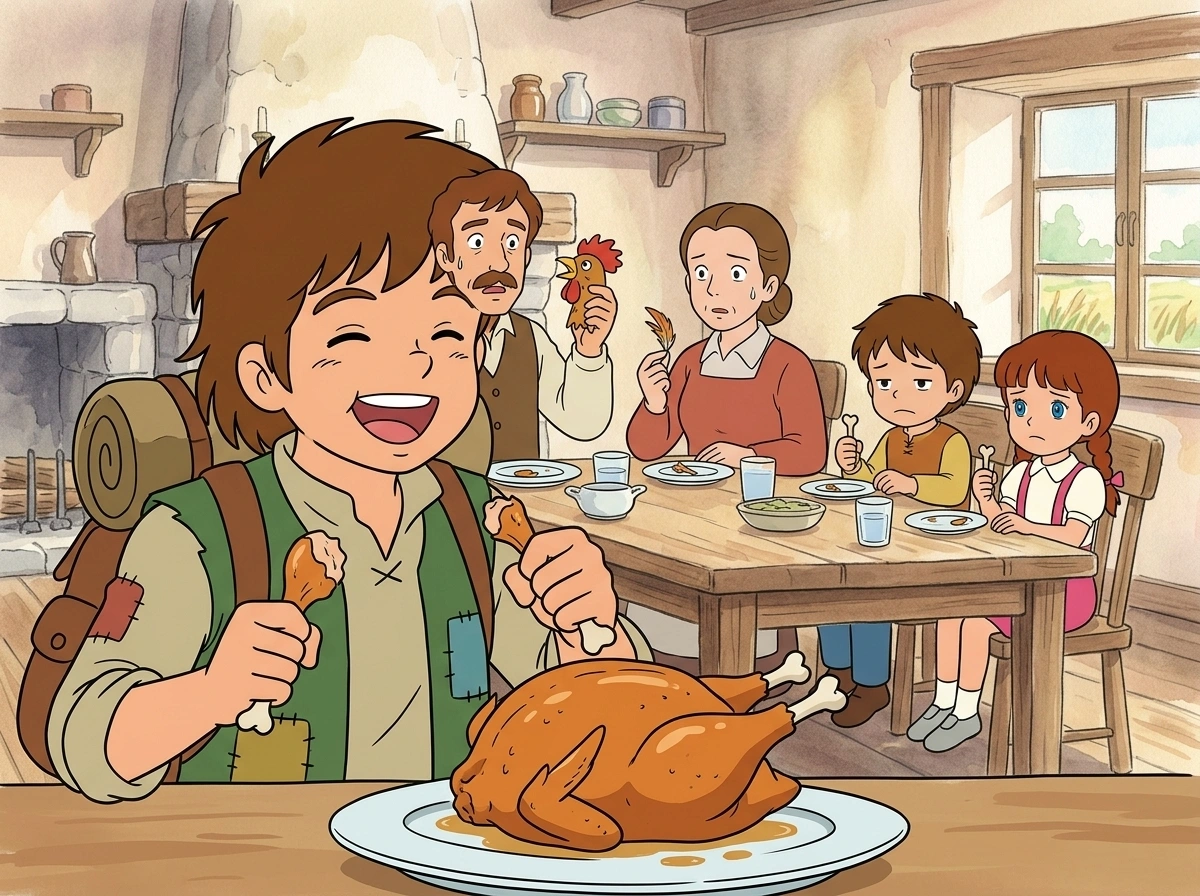
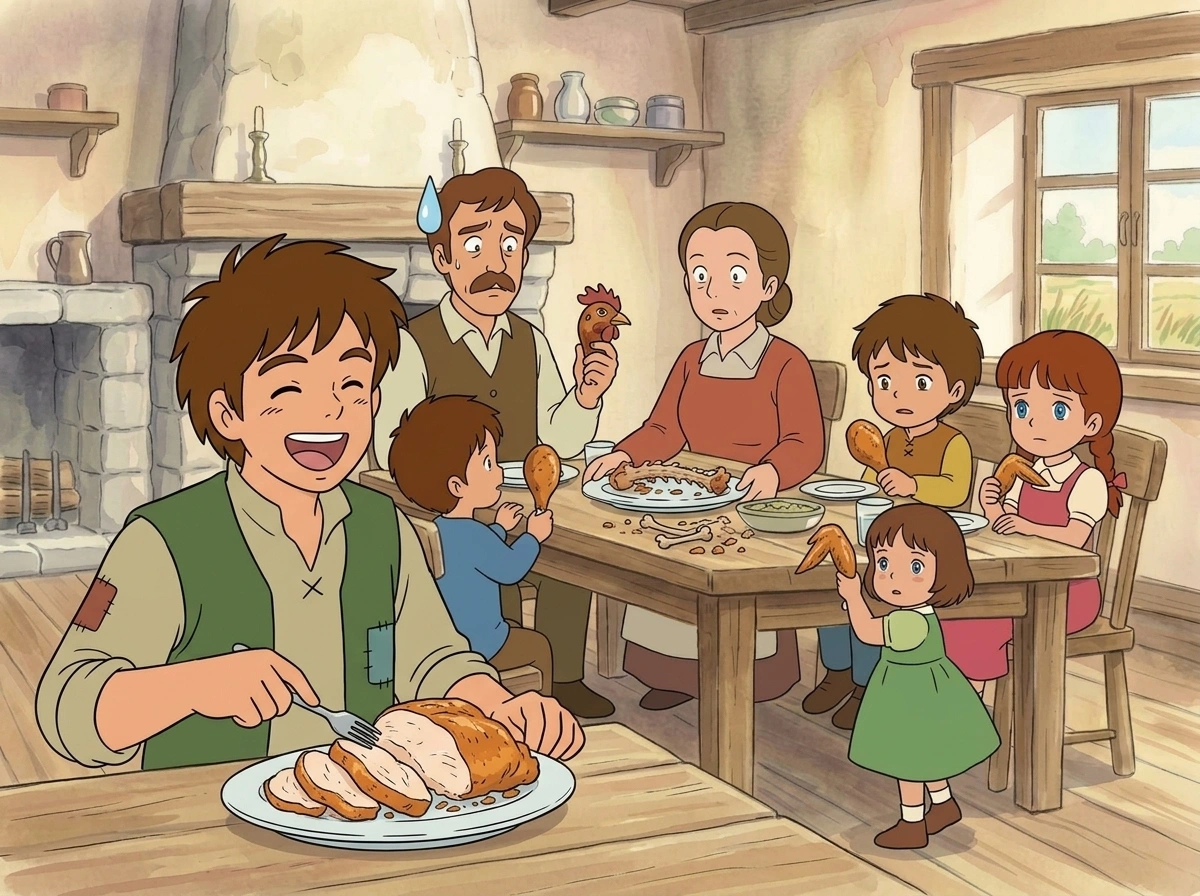
탈무드 12장 두 장 다시 그린 것 확인 · 그림체 기록을 실제와 맞춤
지적한 것이 거의 다 고쳐졌다. 두 장 모두 식탁에 일곱이 앉았고, 둘째 장의 접시에는
뼈만 남은 닭이 놓였으며 나그네 앞에는 저민 가슴살이 있다. 두 아들이 다리를 한 짝씩,
두 딸이 날개를 하나씩 들고 있고 나그네는 닭다리를 들고 있지 않다.
두 장 사이 아이들 옷 색도 맞춰졌다.

내가 틀린 것이 하나 있다. 그림체가 다르다고 했는데, 탈무드 다른 그림을 꺼내 보니
이 책은 원래 전부 애니메이션 셀 그림체다. 처음 들어온 수채 그림이 오히려 혼자 튀던
것이었고 이번 수정으로 나머지와 맞아졌다. 주문서의 그림체 줄이 실제와 달라
'수채와 색연필'로 되어 있던 것을 실제 그림에 맞게 고쳤다.

남은 것은 아버지가 든 닭 머리의 볏이 아직 빨개 산 닭처럼 보이는 것 하나인데,
크게 거슬리지 않아 다시 그리라고 하지 않았다.

_REDRAW.md에서 탈무드 두 장을 빼서 이제 다섯 장이 남았다. 보물섬만이다.

diff --git a/learning/literacy-numeracy/story-books/world-novels/_REDRAW.md b/learning/literacy-numeracy/story-books/world-novels/_REDRAW.md
@@ -1,112 +1,14 @@
 # 다시 그려야 할 그림 (제미나이에 그대로 넣으세요)
 
-2026-09-03 점검에서 걸린 일곱 장입니다. 아래 덩어리를 통째로 복사해서 넣으면 됩니다.
+2026-09-03 점검에서 걸린 다섯 장입니다. 아래 덩어리를 통째로 복사해서 넣으면 됩니다.
 파일명을 그대로 맞춰 원래 자리에 덮어쓰면 책에 바로 나타납니다.
 
-앞서 다시 그려 달라고 했던 네 장(보물섬 14장 첫 그림·읽고 나서, 셜록 8장 둘째·셋째 그림)은
-모두 다시 그려져 들어왔고 확인했습니다.
+앞서 다시 그려 달라고 했던 것들은 모두 들어왔고 확인했습니다.
+보물섬 14장 첫 그림과 읽고 나서, 셜록 8장 둘째·셋째 그림, 그리고 탈무드 12장 두 장입니다.
 
----
-
-## 탈무드 — `talmud-tales/images/story-12-chicken.webp`
-
-**왜 다시 그리나:** 본문은 식탁에 **일곱 명**이라고 못 박는데(아버지, 어머니, 아들 둘,
-딸 둘, 나그네) 그림에는 다섯 명뿐입니다. 아들 하나와 딸 하나가 빠졌습니다.
-뒤에 「두 아들에게 다리를 한 짝씩」 「두 딸에게 날개를 하나씩」 주는 대목이 있어
-아이가 넷이라야 이야기가 맞습니다.
-
-또 나그네가 배낭 멘 아이로 그려졌는데, 본문의 나그네는 저녁에 문을 두드려
-하룻밤 재워 달라 청하고 닭을 손수 나누는 어른입니다.
-
-```
-Children's picture book illustration, warm watercolor and colored-pencil
-style with visible paper texture and soft pencil outlines - NOT flat digital
-anime, NOT cel shading. Soft golden lighting, gentle rounded shapes, storybook
-atmosphere, no text or letters in the image, consistent warm earthy color
-palette (parchment, gold, terracotta, deep brown), expressive character faces.
-The artwork must bleed to all four edges: no white margin, no border, no frame.
-
-THE SEVEN PEOPLE AT THE TABLE - count them, no more and no fewer:
-  1. the father - a grown man with a moustache
-  2. the mother - a grown woman in an apron
-  3. the elder son - a boy of about twelve
-  4. the younger son - a boy of about eight
-  5. the elder daughter - a girl of about ten, brown hair
-  6. the younger daughter - a girl of about six, brown hair in a braid
-  7. the guest - a GROWN MAN of about thirty-five with a short beard, a worn
-     travelling cloak and a staff. He is an adult, taller than the father when
-     standing. He is NOT a boy, NOT a teenager, NOT carrying a backpack.
-The two sons wear plain earth-coloured tunics; the two daughters wear plain
-dresses. Keep their clothes the same in both pictures of this chapter.
-
-Scene: A poor family's plain wooden dinner table in a simple cottage. A small
-roasted chicken sits on a platter in the middle, WHOLE and UNCARVED - head,
-neck, both legs and both wings still attached, nobody has touched it yet.
-All seven are seated around the table looking at it. The mother has just set
-it down. Warm candlelight, hopeful expectant faces, the house poor but the
-table laid with care.
-
-4:3 landscape.
-```
-
----
-
-## 탈무드 — `talmud-tales/images/story-12-chicken-2.webp`
-
-**왜 다시 그리나:** 이 장이 더 어긋납니다.
-
-- 사람이 다섯뿐입니다. 위와 같은 까닭으로 일곱이어야 합니다.
-- 나그네가 또 배낭 멘 아이입니다.
-- **접시 위 통닭이 손도 안 댄 온전한 상태입니다.** 이 장면은 머리·목·다리 둘·날개 둘을
-  다 잘라 나눠 준 뒤입니다. 가족들은 벌써 제 몫을 들고 있는데 닭만 멀쩡해서
-  한 그림 안에서 앞뒤가 어긋납니다.
-- 나그네가 닭다리를 양손에 하나씩 들었습니다. 다리 두 짝은 두 아들 몫이고
-  나그네 몫은 남은 몸통입니다. 접시 위 닭에도 다리가 그대로라 다리가 넷이 됩니다.
-- 아버지가 든 닭 머리가 볏이 새빨갛고 눈이 살아 있어, 구운 닭이 아니라
-  산 수탉의 목을 쥔 것처럼 보입니다.
-- **그림체가 다릅니다.** 나머지 37장은 수채와 색연필인데 이 장만 납작한
-  애니메이션 그림체입니다.
-
-```
-Children's picture book illustration, warm watercolor and colored-pencil
-style with visible paper texture and soft pencil outlines - NOT flat digital
-anime, NOT cel shading. Soft golden lighting, gentle rounded shapes, storybook
-atmosphere, no text or letters in the image, consistent warm earthy color
-palette (parchment, gold, terracotta, deep brown), expressive character faces.
-The artwork must bleed to all four edges: no white margin, no border, no frame.
-
-THE SEVEN PEOPLE AT THE TABLE - count them, no more and no fewer:
-  1. the father - a grown man with a moustache
-  2. the mother - a grown woman in an apron
-  3. the elder son - a boy of about twelve
-  4. the younger son - a boy of about eight
-  5. the elder daughter - a girl of about ten, brown hair
-  6. the younger daughter - a girl of about six, brown hair in a braid
-  7. the guest - a GROWN MAN of about thirty-five with a short beard, a worn
-     travelling cloak and a staff. He is an adult, taller than the father when
-     standing. He is NOT a boy, NOT a teenager, NOT carrying a backpack.
-The two sons wear plain earth-coloured tunics; the two daughters wear plain
-dresses. Keep their clothes the same in both pictures of this chapter.
-
-WHO IS HOLDING WHAT - this is the whole point of the story:
-  the father holds the chicken's HEAD on his plate - a cooked, roasted head,
-    dull brown, eyes closed, comb limp and browned. NOT a live rooster, NOT a
-    bright red comb, NOT an open beak.
-  the mother holds the NECK on her plate
-  each of the two sons holds ONE LEG - one leg each, two legs in all
-  each of the two daughters holds ONE WING - one wing each, two wings in all
-  the guest has the whole REMAINING BODY of the chicken on his own plate -
-    the breast and body meat, and nothing else. He holds NO drumstick.
-
-Scene: The same cottage table just after the carving. The platter in the
-middle now holds only the CARVED CARCASS - head gone, neck gone, BOTH legs
-gone, BOTH wings gone, the breast cut away. There must be NO whole chicken and
-NO leftover drumsticks on the platter. The guest is eating the body meat with
-quiet enjoyment while the six family members look at their small pieces with
-puzzled faces. Warm candlelight, comic warm dinner scene.
-
-4:3 landscape.
-```
+탈무드 12장은 사람 일곱, 나눠 준 뒤의 뼈만 남은 닭, 아들 둘의 다리와 딸 둘의 날개까지
+다 맞게 고쳐졌습니다. 다만 아버지가 든 닭 머리의 볏이 아직 빨개서 산 닭처럼 보입니다.
+크게 거슬리지 않아 다시 그리라고 하지는 않았습니다.
 
 ---
 

diff --git a/learning/literacy-numeracy/story-books/world-novels/talmud-tales/IMAGE-PROMPTS.md b/learning/literacy-numeracy/story-books/world-novels/talmud-tales/IMAGE-PROMPTS.md
@@ -25,7 +25,8 @@
 ## 공통 스타일 지시문 (모든 프롬프트 앞에 붙여서 사용하세요)
 
 ```
-Children's picture book illustration, warm watercolor and colored-pencil style,
+Children's picture book illustration in 1980s Japanese-Korean TV animation cel
+style: flat clean cel shading, crisp uniform outlines, painted background art,
 soft golden lighting, gentle rounded shapes, storybook atmosphere, no text or
 letters in the image, consistent warm earthy color palette (parchment, gold,
 terracotta, deep brown), expressive character faces, dynamic staging.
